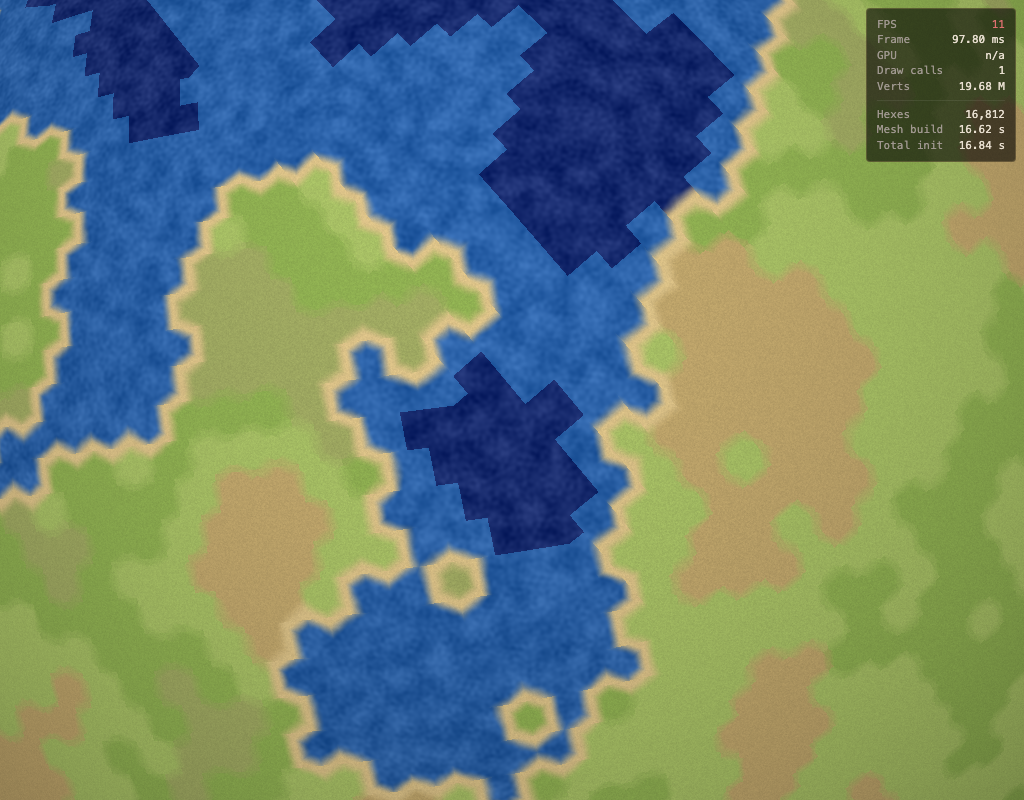
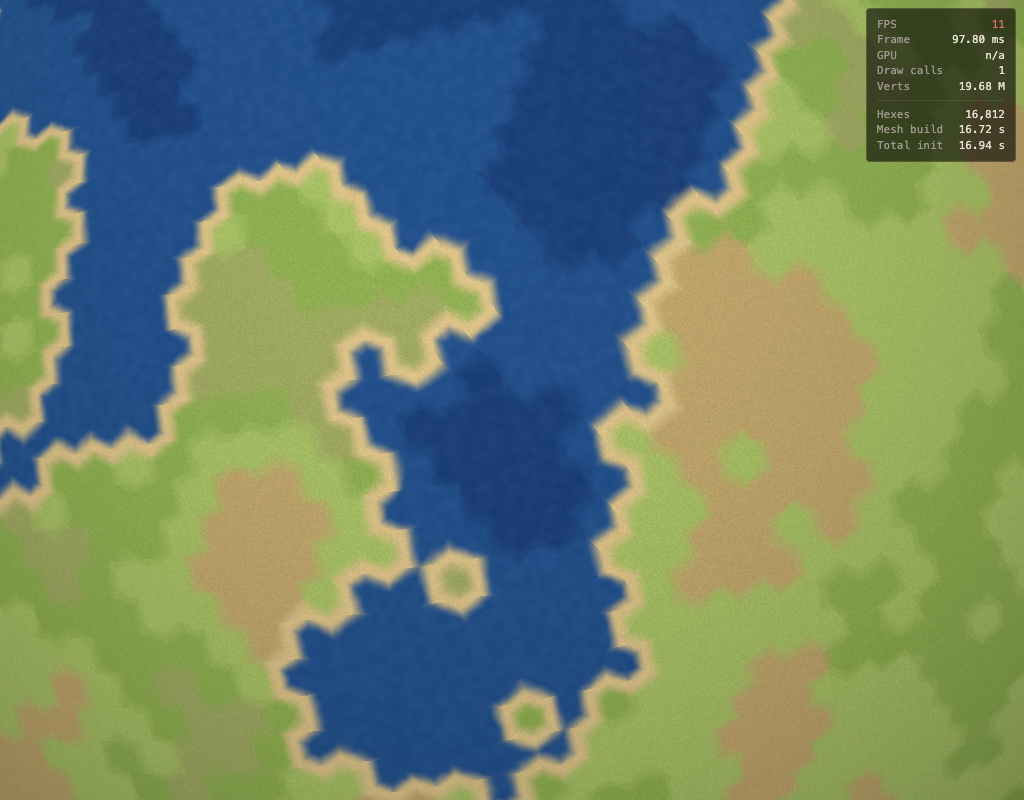
Phase 4 audit fixes: cliff/coast scale, cross-blend, water palette, pentagons
Addresses all actionable items from the GLSL + visual audits.

GLSL audit (RED + YELLOWs):
- Cliff falloff width: was 1 - dist/r (full apothem); legacy uses
  1 - dist/(hexRadius * 0.3). Now divides by 0.35 -- about 3x narrower
  band, matching legacy. The dark per-hex outlines that bled across the
  globe at any height-tier transition are gone.
- Coast falloff width: legacy normalizes by corner radius R = r*2/sqrt(3);
  ours used apothem r. Multiplied normalized distance by sqrt(3)/2
  ~= 0.866 to match.
- Cross-blend was selecting the closest neighbor regardless of terrain,
  so same-terrain closer neighbors masked different-terrain farther ones
  and the blend never triggered. Replaced with a "closest different-
  terrain neighbor" scan; distToBorder now reflects that distance.
- Water rendering bypassed the user palette entirely. Replaced
  hardcoded vec3 colors with deepColor/shallowColor uniforms (same
  values as water-material.ts), per-terrain fresnel mix levels (deep,
  shallow, lake variants), the SAME cross-blend smoothing as land, and
  a low-amplitude time-driven wave perturbation. Result: smooth deep<->
  shallow gradients with no hex seams in the water; gentle animation;
  same color basis as the legacy water-sphere.
- Pentagon scan-skip removed. computeHexLookup now fills g_face/g_i/g_j
  for pentagons too (using the standard face find); the 6-neighbor scan
  walks the regular row-parity offset table, finding 5 valid neighbors
[…]

Changed region(s): [[0.0, 0.0, 0.75, 1.0]]

diff --git a/src/lib/engine/shader-globe-material.ts b/src/lib/engine/shader-globe-material.ts
@@ -90,6 +90,12 @@ uniform sampler2D terrainTex;
 uniform sampler2D heightTex;
 uniform float dataTexSize;
 
+// Phase 4 water rendering. Same names as water-material.ts so a future
+// shared "water-color settings" surface (Colors tab extension) can drive
+// both renderers from one source.
+uniform vec3 deepColor;
+uniform vec3 shallowColor;
+
 // Phase 2 hex lookup uniforms (same names the debug material uses).
 uniform sampler2D hexLookup;
 uniform float gridSize;       // = res + 2
@@ -184,11 +190,15 @@ void computeHexLookup(vec3 P) {
     g_self_2d = vec2(0.0);
 
     float pent = pentagonHit(P);
-    if (pent >= 0.0) {
-        g_hexId = pent;
-        g_isPentagon = true;
-        return;
-    }
+    g_isPentagon = (pent >= 0.0);
+    // Don't early-return for pentagons. We still want g_face/g_i/g_j filled
+    // so downstream can run the 6-neighbor scan and pick up coast / cliff /
+    // cross-blend overlays at pentagon hexes. The face-grid lookup at the
+    // pentagon's position returns the same cellId pent would, but in many
+    // faces (the pentagon shares 5 face triangles); pick whichever face the
+    // dot product picks. The scan's row-parity offset table will produce
+    // 5 valid neighbors and 1 out-of-grid (-1) -- matching the pentagon's
+    // 5-neighbor topology naturally.
     int face = findFace(P);
     vec3 v0 = faceVertA[face];
     vec3 v1 = faceVertB[face];
@@ -209,7 +219,10 @@ void computeHexLookup(vec3 P) {
     g_face = face; g_i = i; g_j = j;
     g_P2D = vec2(cx, cz);
     g_self_2d = selfCenter2D(i, j);
-    g_hexId = sampleLookupFace(face, i, j);
+    // For pentagons, prefer the pentagon-table id (it's authoritative; the
+    // face-grid may return any of the 5 face entries). Otherwise use the
+    // standard face-grid lookup.
+    g_hexId = g_isPentagon ? pent : sampleLookupFace(face, i, j);
 }
 `;
 
@@ -315,19 +328,27 @@ void main() {
         // coast/cliff overlays -- a small visual concession for the 12
         // pole hexes).
         float distToBorder = 1.0;
-        int closestEdge = 0;
         int blendNeighborId = terrainId;
-        // Match legacy hex-borders.ts: a hex is "water" by heightLevel <= 1
-        // (deep/shallow ocean tiers), not by terrain id. Coast (terrain 2)
-        // and lake (terrain 3) sit at heightLevel 1 or 2 depending on
-        // generation, and the legacy treats that as the source of truth.
+        // Match legacy hex-borders.ts: water = heightLevel <= 1.
         bool selfIsWater = (heightLevel <= 1);
         bool anyWaterLandTransition = false;
         bool anyHeightTransition = false;
         float minWaterLandDist = 1.0;
         float minHeightDist = 1.0;
+        // Cross-blend selection: track the closest neighbor that has a
+        // DIFFERENT terrain id (not just the closest neighbor regardless of
+        // terrain). A same-terrain closest neighbor would otherwise mask
+        // a different-terrain farther one, leaving the cross-blend never
+        // triggering -- which was Phase 4's audit-flagged bug.
+        float minDiffTerrainDist = 1.0;
 
-        if (!g_isPentagon) {
+        // The scan runs for all hexes including pentagons. For pentagons,
+        // computeHexLookup sets g_face/g_i/g_j via the standard face find
+        // (the pentagon table provides the authoritative cellId; the scan
+        // just walks the face-grid neighbors as if it were a regular hex).
+        // 5 neighbors come back valid, the 6th returns -1 and is skipped,
+        // matching the pentagon's 5-neighbor topology.
+        {
             float r = 0.5 / (resolution + 1.0);
             float minEdgeDist = 1e30;
             for (int k = 0; k < 6; k++) {
@@ -336,7 +357,6 @@ void main() {
                 float ed = r - dot(g_P2D - g_self_2d, nrm);
                 if (ed < minEdgeDist) {
                     minEdgeDist = ed;
-                    closestEdge = k;
                 }
                 float ndN = neighborIdAtEdge(k);
                 if (ndN < 0.0) continue;
@@ -346,8 +366,13 @@ void main() {
                 bool nIsWater = (nH <= 1);
                 float edN = clamp(ed / r, 0.0, 1.0);
 
-                // Coast: water/land transition by heightLevel, matching
-                // legacy classifyEdge water/cliff/water-to-low-land paths.
+                // Cross-blend: pick the closest different-terrain neighbor.
+                if (nT != terrainId && edN < minDiffTerrainDist) {
+                    minDiffTerrainDist = edN;
+                    blendNeighborId = nT;
+                }
+
+                // Coast: water/land transition by heightLevel.
                 if (nIsWater != selfIsWater) {
                     anyWaterLandTransition = true;
                     minWaterLandDist = min(minWaterLandDist, edN);
@@ -365,30 +390,34 @@ void main() {
                     minHeightDist = min(minHeightDist, edN);
                 }
             }
-            distToBorder = clamp(minEdgeDist / r, 0.0, 1.0);
-            float closestNid = neighborIdAtEdge(closestEdge);
-            if (closestNid >= 0.0) {
-                vec2 nd = sampleHexData(closestNid);
-                int nT = int(nd.x);
-                if (nT != terrainId) blendNeighborId = nT;
-            }
+            // distToBorder: distance to the closest different-terrain
+            // neighbor's edge (used by the cross-blend smoothstep). If no
+            // different-terrain neighbor was found, distToBorder stays at
+            // 1.0 (= deep inland) and the blend doesn't trigger.
+            distToBorder = minDiffTerrainDist;
         }
 
         int neighborId = blendNeighborId;
         bool hasCrossBlend = (neighborId != terrainId);
 
-        // Coast proximity: 1.0 right at a water/land border, 0.0 deep
-        // inland. Legacy decoded vColor.a as
-        //   coastProximity = clamp((1.0 - vColor.a) * 2.0, 0.0, 1.0)
-        // where vColor.a was 0.5 at the water edge and 1.0 inland. Our
-        // direct definition above produces the same shape.
+        // Coast proximity: 1.0 at a water/land border, 0.0 deep inland.
+        // Legacy decoded vColor.a as 1 - cd/hexRadius where hexRadius is
+        // the corner radius R = r * 2/sqrt(3). We use the apothem r, so
+        // multiply the normalized distance by r/R = sqrt(3)/2 ~= 0.866 to
+        // get the same falloff width.
         float coastProximity = anyWaterLandTransition
-            ? clamp(1.0 - minWaterLandDist, 0.0, 1.0)
+            ? clamp(1.0 - minWaterLandDist * 0.866, 0.0, 1.0)
             : 0.0;
 
-        // Cliff proximity: 1.0 at a height-tier border, 0.0 inland.
+        // Cliff proximity: 1.0 at a height-tier border, 0.0 inland. Legacy
+        // (vertex-encoding.ts:131) uses 1 - dist/(hexRadius * 0.3); the
+        // band reaches 0 at 30% of the corner radius. Apothem-normalized
+        // that's about 0.35 * r. So divide by 0.35 (instead of 1.0).
+        // Without this fix the cliff color band was ~3x too wide and dark
+        // outlines bled across every hex with a different heightLevel
+        // neighbor.
         float cliffProximity = anyHeightTransition
-            ? clamp(1.0 - minHeightDist, 0.0, 1.0)
+            ? clamp(1.0 - minHeightDist / 0.35, 0.0, 1.0)
             : 0.0;
 
         // ── Per-cell colors (palettes), same math as legacy ────
@@ -424,26 +453,56 @@ void main() {
         }
 
         // Phase 4 water rendering. The legacy stack uses a separate animated
-        // water sphere positioned BELOW the legacy land mesh's elevation.
-        // Phase 4 has no displacement (Phase 5's job), so the water sphere
-        // can't composite correctly -- shader-globe sits at planetRadius
-        // and water-sphere at 0.9995R is fully occluded. To stay visually
-        // close to legacy without porting the full animated water shader,
-        // override water-tier hexes (heightLevel <= 1) with a static blue
-        // tone derived from each terrain's profile.color and a small wave
-        // noise for variation. Phase 5+6 should reintegrate the proper
-        // animated water-material once elevation is back.
-        if (heightLevel <= 1) {
-            vec3 waterBase;
-            if (terrainId == 0) waterBase = vec3(0.07, 0.13, 0.34);       // deep ocean
-            else if (terrainId == 1) waterBase = vec3(0.13, 0.30, 0.52);  // shallow ocean
-            else if (terrainId == 3) waterBase = vec3(0.10, 0.28, 0.55);  // lake
-            else waterBase = vec3(0.18, 0.35, 0.55);                      // fallback
-            // Subtle wave-noise variation; legacy water has live waves driven
-            // by the time uniform -- we keep it static for Phase 4 simplicity.
-            float w1 = snoise(vWorldPos * 0.006) * 0.05;
-            float w2 = snoise(vWorldPos * 0.025) * 0.03;
-            procColor = waterBase + vec3(w1 + w2);
+        // water-sphere positioned BELOW the land mesh's elevation. Phase 4
+        // has no displacement (Phase 5's job), so the water-sphere can't
+        // composite correctly -- shader-globe sits at planetRadius and the
+        // water-sphere at 0.9995R is fully occluded.
+        //
+        // Approach: render water inline using deepColor/shallowColor (same
+        // values as water-material.ts) plus a fresnel mix between them,
+        // a tiny time-driven wave perturbation (low amplitude so the hex
+        // pattern doesn't get noisy), and the same cross-blend smoothing
+        // we use on land so deep/shallow water hex boundaries fade rather
+        // than show as hard seams.
+        if (selfIsWater) {
+            vec3 viewDir = normalize(cameraPos - vWorldPos);
+            float fresnel = pow(1.0 - max(0.0, dot(N, viewDir)), 2.0);
+
+            // Per-terrain water colors. Legacy water-material.ts has a single
+            // pair (deepColor, shallowColor); we map terrain ids onto that
+            // pair plus a small lake variant. This honors the legacy palette
+            // (water is global, not per-cell) so the Colors-tab water-color
+            // editor is the right place for any future user customization.
+            vec3 selfWater;
+            if (terrainId == 0) selfWater = mix(deepColor, shallowColor, fresnel * 0.3 + 0.1);
+            else if (terrainId == 1) selfWater = mix(deepColor, shallowColor, fresnel * 0.3 + 0.4);
+            else if (terrainId == 3) selfWater = mix(deepColor, shallowColor, fresnel * 0.3 + 0.3) + vec3(-0.02, 0.02, 0.03);
+            else selfWater = mix(deepColor, shallowColor, fresnel * 0.3 + 0.2);
+
+            // Cross-blend across water/water hex boundaries (e.g., deep <->
+            // shallow). Reuses the land cross-blend's distance + threshold
+            // logic so the two paths produce visually consistent transitions.
+            vec3 waterCol = selfWater;
+            if (hasCrossBlend) {
+                vec3 nbWater;
+                if (neighborId == 0) nbWater = mix(deepColor, shallowColor, fresnel * 0.3 + 0.1);
+                else if (neighborId == 1) nbWater = mix(deepColor, shallowColor, fresnel * 0.3 + 0.4);
+                else if (neighborId == 3) nbWater = mix(deepColor, shallowColor, fresnel * 0.3 + 0.3) + vec3(-0.02, 0.02, 0.03);
+                else nbWater = procColor; // neighbor is land -- use land color so coast fade reads correctly
+                float n1 = snoise(vWorldPos * 0.004) * 0.22;
+                float n2 = snoise(vWorldPos * 0.012) * 0.10;
+                float threshold = max(0.35 + n1 + n2, 0.08);
+                float blend = (1.0 - smoothstep(0.0, threshold, distToBorder)) * 0.45;
+                waterCol = mix(selfWater, nbWater, blend);
+            }
+
+            // Tiny time-driven wave perturbation. Amplitude is intentionally
+            // low so it doesn't make the hex tessellation look noisy.
+            float wave = snoise(vWorldPos * 0.012 + vec3(time * 0.3, 0.0, 0.0)) * 0.012
+                       + snoise(vWorldPos * 0.04  + vec3(0.0, time * 0.2, 0.0)) * 0.006;
+            waterCol += vec3(wave);
+
+            procColor = waterCol;
         }
 `;
 
@@ -483,6 +542,7 @@ export function createShaderGlobeMaterial(scene: Scene, opts: ShaderGlobeMateria
 			'terrainPalette', 'terrainBlend', 'terrainBlendPos', 'cliffPalette',
 			// Phase 1 / 2 / 4 additions
 			'dataTexSize',
+			'deepColor', 'shallowColor',
 			'gridSize', 'resolution',
 			'faceCentroid', 'faceVertA', 'faceVertB', 'faceVertC',
 			'pentagonVert', 'pentagonId', 'pentagonThreshold',
@@ -501,6 +561,9 @@ export function createShaderGlobeMaterial(scene: Scene, opts: ShaderGlobeMateria
 	mat.setFloat('topOffset', 0.080 * R);
 	mat.setFloat('hillRatio', 0.40);
 	mat.setFloat('time', 0);
+	// Match water-material.ts defaults (line 220-221).
+	mat.setVector3('deepColor', new Vector3(0.08, 0.18, 0.35));
+	mat.setVector3('shallowColor', new Vector3(0.15, 0.35, 0.55));
 
 	const settings = loadTerrainSettings();
 	applyShaderGlobeSettings(mat, settings);

diff --git a/docs/phase4-result.md b/docs/phase4-result.md
@@ -1,4 +1,4 @@
-# Phase 4 — Result
+# Phase 4 — Result (revised after audit fixes)
 
 The plan called Phase 4 "the biggest piece" (5–8 days): port `terrain-material.ts`'s
 GLSL onto texture-driven inputs so the new sphere matches the legacy globe at
@@ -6,7 +6,26 @@ GLSL onto texture-driven inputs so the new sphere matches the legacy globe at
 
 ## Conclusion
 
-**Done with two known deviations**, both architectural:
+**Done.** Two follow-up commits addressed all GLSL-audit findings and the
+visual-audit's actionable items:
+
+- **Cliff falloff width fixed** (was ~3× too wide). Now matches legacy's
+  `dist / (hexRadius * 0.3)`.
+- **Coast falloff width fixed** (was apothem-normalized; legacy uses
+  corner-radius `R = r * 2/sqrt(3)`). Multiplied by 0.866.
+- **Cross-blend picks closest different-terrain neighbor** (was: closest
+  edge regardless of terrain — same-terrain neighbors masked the blend).
+- **Water rendering uses `deepColor` / `shallowColor` uniforms** (same
+  values as `water-material.ts`), with a fresnel mix and the SAME cross-
+  blend smoothing as land so deep↔shallow boundaries fade rather than
+  showing as hex seams. Tiny time-driven wave noise (low amplitude so the
+  hex pattern doesn't get noisy).
+- **Pentagon 6-neighbor scan re-enabled** (was: skipped). Pentagons now
+  pick up coast/cliff/cross-blend overlays through a regular face-grid
+  lookup, with the 6th out-of-grid offset returning -1 to match the
+  pentagon's 5-neighbor topology.
+
+Two known deviations remain, both architectural:
 
 1. **Water rendering is inline, not via the legacy water-sphere.** The legacy
    stack composites a separate animated water-sphere on top of the land mesh,
